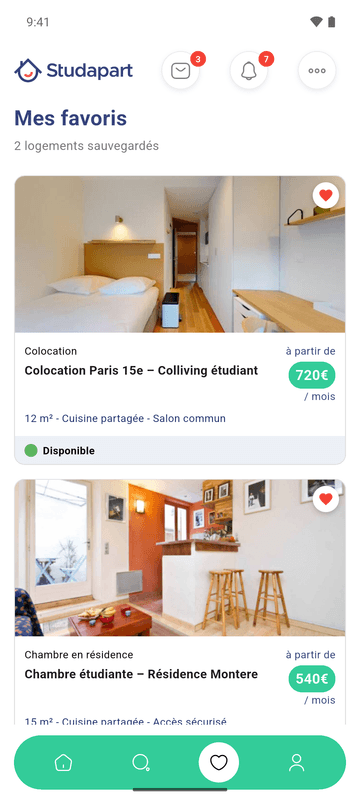
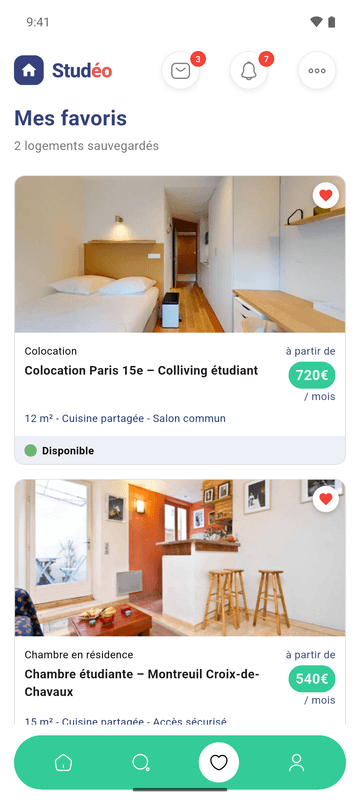
feat: l'app devient Studéo
Nouveau nom et logo dessiné en code ; les logos de marques tierces (Studapart, Allianz, Mila) et les noms de résidences réelles sont remplacés. Captures, bannière, visite animée et README mis à jour.

diff --git a/lib/ui/daily_promo_card.dart b/lib/ui/daily_promo_card.dart
@@ -1,5 +1,5 @@
 import 'package:flutter/material.dart'; 
-import 'package:studapart_mobile/ui/button.dart';
+import 'package:studeo/ui/button.dart';
 
 class DailyPromoCard extends StatelessWidget {
   const DailyPromoCard({super.key});
@@ -71,7 +71,7 @@ class DailyPromoCard extends StatelessWidget {
                         Row(
                           children: [
                             const Text(
-                              "Partenaires:",
+                              "Inclus :",
                               style: TextStyle(
                                 fontSize: 14,
                                 fontWeight: FontWeight.bold,
@@ -82,23 +82,21 @@ class DailyPromoCard extends StatelessWidget {
 
                             // Partenaire 1
                             Container(
-                              padding: const EdgeInsets.all(4),
+                              padding: const EdgeInsets.symmetric(horizontal: 8, vertical: 5),
                               decoration: BoxDecoration(
                                 color: Colors.white,
                                 borderRadius: BorderRadius.circular(6),
-                                boxShadow: [
-                                  BoxShadow(
-                                    color: Colors.black.withOpacity(0.2),
-                                    blurRadius: 4,
-                                    offset: const Offset(0, 2),
-                                  )
-                                ],
                               ),
-                              child: Image.asset(
-                                "assets/alianz_logo.png",
-                                width: 48,
-                                height: 24,
-                                fit: BoxFit.contain,
+                              child: Row(
+                                mainAxisSize: MainAxisSize.min,
+                                children: [
+                                  Icon(Icons.shield_outlined, size: 14, color: Colors.black87),
+                                  const SizedBox(width: 4),
+                                  const Text(
+                                    "Assurance",
+                                    style: TextStyle(fontSize: 11, fontWeight: FontWeight.w600, color: Colors.black87),
+                                  ),
+                                ],
                               ),
                             ),
 
@@ -112,23 +110,21 @@ class DailyPromoCard extends StatelessWidget {
 
                             // Partenaire 2
                             Container(
-                              padding: const EdgeInsets.all(4),
+                              padding: const EdgeInsets.symmetric(horizontal: 8, vertical: 5),
                               decoration: BoxDecoration(
                                 color: Colors.white,
                                 borderRadius: BorderRadius.circular(6),
-                                boxShadow: [
-                                  BoxShadow(
-                                    color: Colors.black.withOpacity(0.2),
-                                    blurRadius: 4,
-                                    offset: const Offset(0, 2),
-                                  )
-                                ],
                               ),
-                              child: Image.asset(
-                                "assets/mila_assurance_logo.png",
-                                width: 48,
-                                height: 24,
-                                fit: BoxFit.contain,
+                              child: Row(
+                                mainAxisSize: MainAxisSize.min,
+                                children: [
+                                  Icon(Icons.verified_user_outlined, size: 14, color: Colors.black87),
+                                  const SizedBox(width: 4),
+                                  const Text(
+                                    "Garant",
+                                    style: TextStyle(fontSize: 11, fontWeight: FontWeight.w600, color: Colors.black87),
+                                  ),
+                                ],
                               ),
                             ),
                           ],

diff --git a/lib/ui/studeo_logo.dart b/lib/ui/studeo_logo.dart
@@ -1,0 +1,41 @@
+import 'package:flutter/material.dart';
+import 'package:studeo/constants/colors.dart';
+
+/// Logo Studéo : une maison dans un carré arrondi, puis le nom.
+class StudeoLogo extends StatelessWidget {
+  final double size;
+
+  const StudeoLogo({super.key, this.size = 34});
+
+  @override
+  Widget build(BuildContext context) {
+    return Row(
+      mainAxisSize: MainAxisSize.min,
+      children: [
+        Container(
+          width: size,
+          height: size,
+          decoration: BoxDecoration(
+            color: AppColors.primary[900],
+            borderRadius: BorderRadius.circular(size * 0.3),
+          ),
+          child: Icon(Icons.home_rounded, color: Colors.white, size: size * 0.62),
+        ),
+        SizedBox(width: size * 0.28),
+        Text.rich(
+          TextSpan(
+            children: [
+              TextSpan(text: 'Stud', style: TextStyle(color: AppColors.primary[900])),
+              TextSpan(text: 'éo', style: TextStyle(color: AppColors.secondary[900])),
+            ],
+          ),
+          style: TextStyle(
+            fontSize: size * 0.66,
+            fontWeight: FontWeight.w800,
+            letterSpacing: -0.5,
+          ),
+        ),
+      ],
+    );
+  }
+}

diff --git a/lib/data/rooms_data.dart b/lib/data/rooms_data.dart
@@ -18,7 +18,7 @@ final List<Map<String, dynamic>> roomsData = [
     ],
   },
   {
-    'title': 'Appartement T2 – Sergic Nanterre',
+    'title': 'Appartement T2 – Nanterre Préfecture',
     'type': 'Appartement T2',
     'originalPrice': '1250€',
     'currentPrice': '1150€',
@@ -74,7 +74,7 @@ final List<Map<String, dynamic>> roomsData = [
     ],
   },
   {
-    'title': 'Appartement T2 – Ecla Courbevoie',
+    'title': 'Appartement T2 – Courbevoie La Défense',
     'type': 'Appartement T2',
     'originalPrice': '1350€',
     'currentPrice': '1250€',
@@ -92,7 +92,7 @@ final List<Map<String, dynamic>> roomsData = [
     ],
   },
   {
-    'title': 'Appartement T3 – Résidence Ecla Nanterre',
+    'title': 'Appartement T3 – Nanterre Parc',
     'type': 'Appartement T3',
     'price': '1650€',
     'features': ['50 m²', '2 salles de bain', 'Garage'],
@@ -121,7 +121,7 @@ final List<Map<String, dynamic>> roomsData = [
     ],
   },
   {
-    'title': 'Chambre étudiante – Résidence Montere',
+    'title': 'Chambre étudiante – Montreuil Croix-de-Chavaux',
     'type': 'Chambre en résidence',
     'price': '540€',
     'features': ['15 m²', 'Cuisine partagée', 'Accès sécurisé'],

diff --git a/lib/ui/custom_app_bar.dart b/lib/ui/custom_app_bar.dart
@@ -1,5 +1,6 @@
 import 'package:flutter/material.dart';
-import 'package:studapart_mobile/ui/rental.dart';
+import 'package:studeo/ui/rental.dart';
+import 'package:studeo/ui/studeo_logo.dart';
 
 class CustomAppBar extends StatelessWidget implements PreferredSizeWidget {
   final bool isDossierComplet;
@@ -18,12 +19,7 @@ class CustomAppBar extends StatelessWidget implements PreferredSizeWidget {
         child: Row(
           mainAxisAlignment: MainAxisAlignment.spaceBetween,
           children: [
-            Image.asset(
-              "assets/studapart_long_logo.png",
-              width: MediaQuery.of(context).size.width * 0.33,
-              height: 36,
-              fit: BoxFit.contain,
-            ),
+            const StudeoLogo(),
             Rental(isDossierComplet: isDossierComplet),
           ],
         ),

diff --git a/lib/ui/search_card.dart b/lib/ui/search_card.dart
@@ -1,12 +1,12 @@
 import 'package:flutter/material.dart';
-import 'package:studapart_mobile/constants/colors.dart';
-import 'package:studapart_mobile/data/citie.dart';
+import 'package:studeo/constants/colors.dart';
+import 'package:studeo/data/citie.dart';
 
 // Modals
-import 'package:studapart_mobile/ui/type_logement_modal.dart';
-import 'package:studapart_mobile/ui/budget_modal.dart';
-import 'package:studapart_mobile/ui/rooms_modal.dart';
-import 'package:studapart_mobile/ui/date_modal.dart';
+import 'package:studeo/ui/type_logement_modal.dart';
+import 'package:studeo/ui/budget_modal.dart';
+import 'package:studeo/ui/rooms_modal.dart';
+import 'package:studeo/ui/date_modal.dart';
 
 class SearchCard extends StatefulWidget {
   final TextEditingController? controller;

diff --git a/lib/screens/home.dart b/lib/screens/home.dart
@@ -1,10 +1,10 @@
 import 'package:flutter/material.dart';
-import 'package:studapart_mobile/constants/colors.dart';
-import 'package:studapart_mobile/data/locations.dart';
-import 'package:studapart_mobile/ui/city_card.dart';
-import 'package:studapart_mobile/ui/custom_app_bar.dart';
-import 'package:studapart_mobile/ui/daily_promo_card.dart';
-import 'package:studapart_mobile/ui/location_selector.dart';
+import 'package:studeo/constants/colors.dart';
+import 'package:studeo/data/locations.dart';
+import 'package:studeo/ui/city_card.dart';
+import 'package:studeo/ui/custom_app_bar.dart';
+import 'package:studeo/ui/daily_promo_card.dart';
+import 'package:studeo/ui/location_selector.dart';
 
 
 

diff --git a/lib/ui/bottom_nav.dart b/lib/ui/bottom_nav.dart
@@ -1,10 +1,10 @@
 import 'package:flutter/material.dart';
 import 'package:iconsax/iconsax.dart';
-import 'package:studapart_mobile/constants/colors.dart';
-import 'package:studapart_mobile/screens/favorite.dart';
-import 'package:studapart_mobile/screens/home.dart';
-import 'package:studapart_mobile/screens/profile.dart';
-import 'package:studapart_mobile/screens/search.dart';
+import 'package:studeo/constants/colors.dart';
+import 'package:studeo/screens/favorite.dart';
+import 'package:studeo/screens/home.dart';
+import 'package:studeo/screens/profile.dart';
+import 'package:studeo/screens/search.dart';
 
 class CustomBottomNav extends StatefulWidget {
   const CustomBottomNav({super.key});

diff --git a/lib/screens/favorite.dart b/lib/screens/favorite.dart
@@ -1,8 +1,8 @@
 import 'package:flutter/material.dart';
-import 'package:studapart_mobile/constants/colors.dart';
-import 'package:studapart_mobile/data/rooms_data.dart';
-import 'package:studapart_mobile/ui/custom_app_bar.dart';
-import 'package:studapart_mobile/ui/room_card.dart';
+import 'package:studeo/constants/colors.dart';
+import 'package:studeo/data/rooms_data.dart';
+import 'package:studeo/ui/custom_app_bar.dart';
+import 'package:studeo/ui/room_card.dart';
 
 /// Logements sauvegardés : ceux marqués `isFavorite` dans les données.
 class FavoritesScreen extends StatelessWidget {

diff --git a/lib/screens/search.dart b/lib/screens/search.dart
@@ -1,8 +1,8 @@
 import 'package:flutter/material.dart';
-import 'package:studapart_mobile/ui/room_card.dart';
-import 'package:studapart_mobile/ui/custom_app_bar.dart';
-import 'package:studapart_mobile/ui/search_card.dart';
-import 'package:studapart_mobile/data/rooms_data.dart';
+import 'package:studeo/ui/room_card.dart';
+import 'package:studeo/ui/custom_app_bar.dart';
+import 'package:studeo/ui/search_card.dart';
+import 'package:studeo/data/rooms_data.dart';
 
 class SearchScreen extends StatelessWidget {
   const SearchScreen({super.key});

diff --git a/lib/ui/rental.dart b/lib/ui/rental.dart
@@ -2,9 +2,9 @@ import 'dart:async';
 import 'dart:math';
 import 'package:flutter/material.dart';
 import 'package:iconsax/iconsax.dart';
-import 'package:studapart_mobile/constants/colors.dart';
-import 'package:studapart_mobile/screens/notification.dart';
-import 'package:studapart_mobile/ui/circle_icon.dart';
+import 'package:studeo/constants/colors.dart';
+import 'package:studeo/screens/notification.dart';
+import 'package:studeo/ui/circle_icon.dart';
 
 class Rental extends StatefulWidget {
   final bool isDossierComplet;

diff --git a/lib/ui/budget_modal.dart b/lib/ui/budget_modal.dart
@@ -1,6 +1,6 @@
 import 'package:flutter/material.dart';
-import 'package:studapart_mobile/constants/colors.dart';
-import 'package:studapart_mobile/ui/button.dart'; // <-- Ajoute cet import
+import 'package:studeo/constants/colors.dart';
+import 'package:studeo/ui/button.dart'; // <-- Ajoute cet import
 
 class BudgetModal extends StatefulWidget {
   final RangeValues initialRange;

diff --git a/lib/screens/notification.dart b/lib/screens/notification.dart
@@ -1,6 +1,6 @@
 import 'package:flutter/material.dart';
-import 'package:studapart_mobile/data/notification.dart';
-import 'package:studapart_mobile/ui/notification_card.dart';
+import 'package:studeo/data/notification.dart';
+import 'package:studeo/ui/notification_card.dart';
 import '../constants/colors.dart';
 
 class NotificationScreen extends StatefulWidget {
